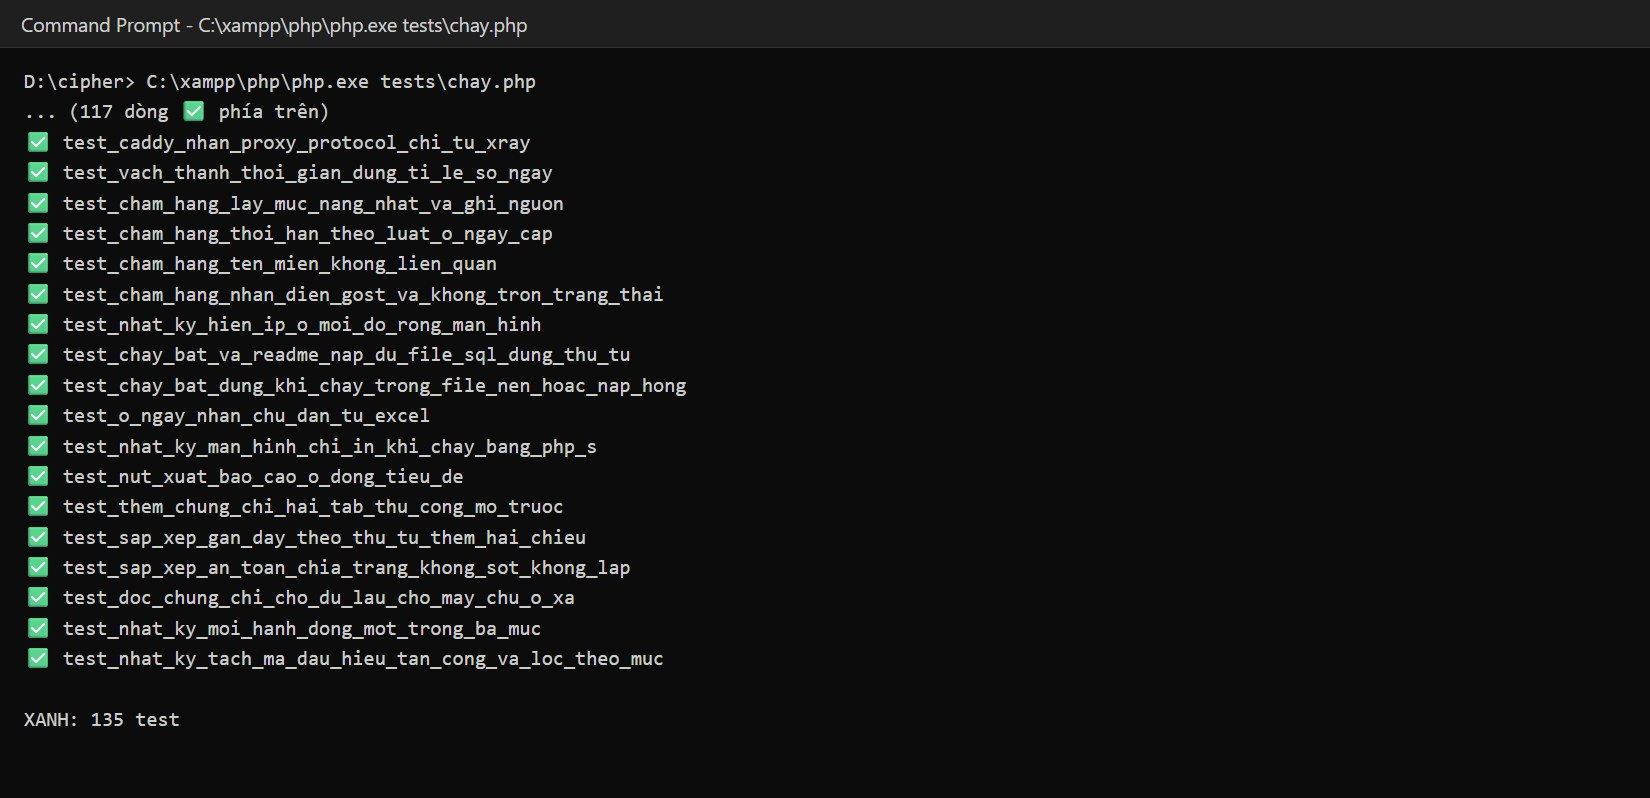
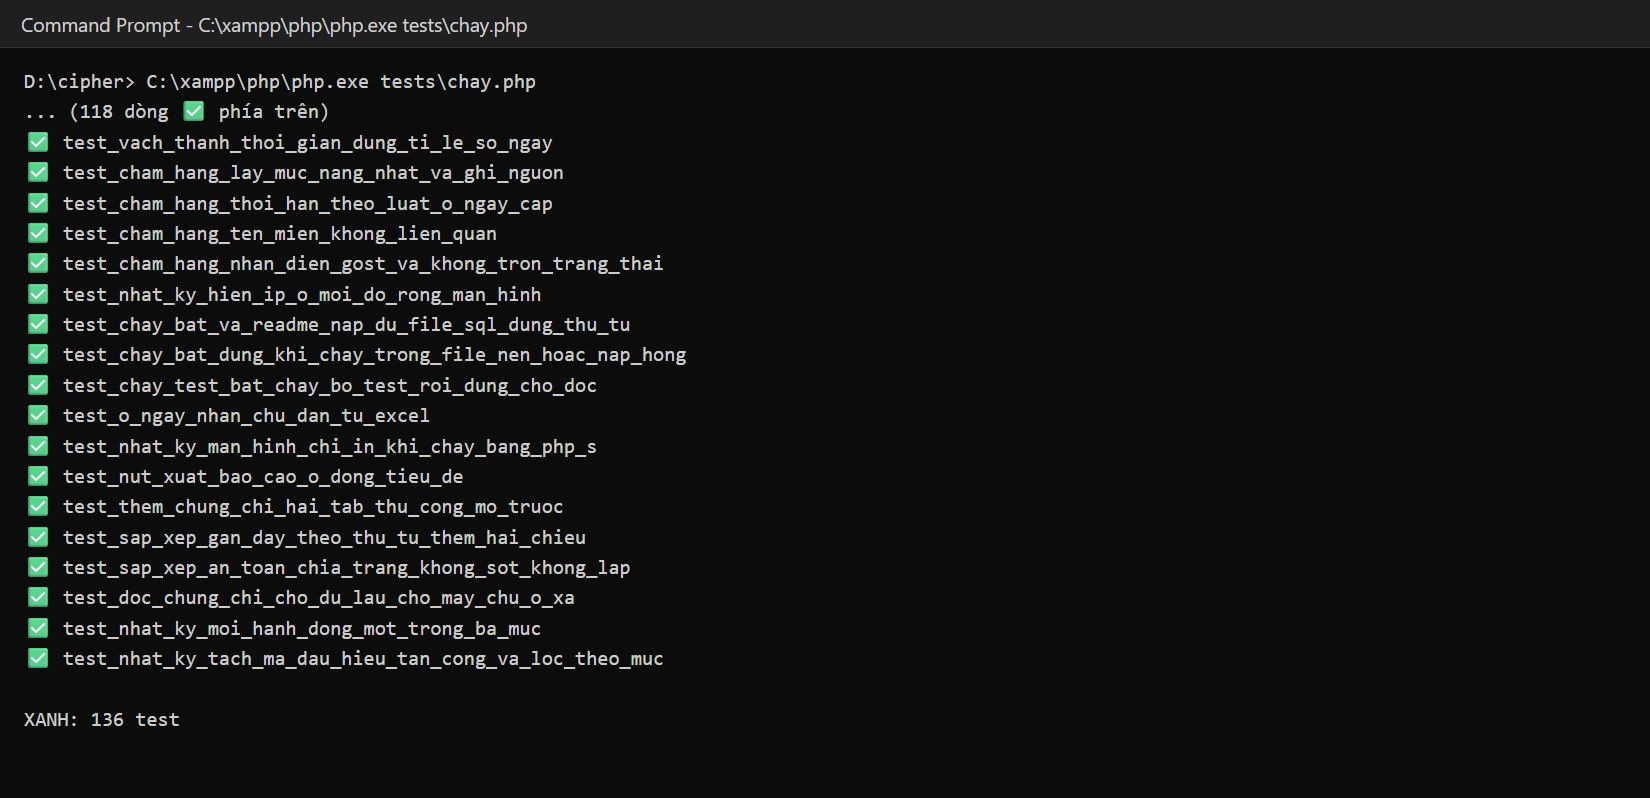
Chụp lại ảnh chạy bộ test cho đúng 136 test
Vì sao: docs/anh/chay_test.jpg chụp lúc bộ test còn 135, trong khi báo cáo ghi
"XANH: 136 test" ngay dưới ảnh và bảng tổng hợp ghi 136/136. Ảnh mới chụp từ đầu
ra thật của tests/chay.php ngày 16/11/2026 (XANH: 136 test), cùng kiểu cửa sổ với
temp/cong_cu_bao_cao/anh_cua_so.py. Công cụ cũ cần bản web tạm temp/web đã bị dọn,
nên lần này Chrome mở thẳng file HTML. Báo cáo Word/PDF và hai gói ở D:\Music
dựng lại theo ảnh mới.

Changed region(s): [[0.0618, 0.1504, 0.4327, 0.5113]]

diff --git a/VIECDANGLAM.md b/VIECDANGLAM.md
@@ -1,2 +1,11 @@
 # 🎯 VIỆC ĐANG LÀM
 > Phiếu bị GHI ĐÈ ở việc kế tiếp. Xong việc thì để trống, chừa đúng dòng tiêu đề.
+
+## Gắn ảnh thật vào slide; sửa ảnh chạy test 135 → 136 trong báo cáo (mở 16/11/2026)
+
+**Một câu:** slide ngoài demo dùng ảnh thật thay hình minh hoạ; ảnh `docs/anh/chay_test.jpg` chụp lúc còn 135 test.
+**User đã chốt:** slide 2 ảnh chứng chỉ Chrome (user chụp, `D:\Desktop\chung_chi.png`) · slide 3 cắt Dashboard,
+Cảnh báo, Lịch sử gia hạn · slide 5 `doc_noi_bo` (giữ sơ đồ nhỏ) · slide 6 giữ sơ đồ · slide 7 `nhat_ky_nguy_hiem` ·
+slide 8 ảnh test mới. Sửa báo cáo làm cùng lúc: chụp lại ảnh, dựng lại Word/PDF, đóng lại 2 gói ở D:\Music.
+**Coi là XONG khi:** ảnh 9 slide đã tự xem · báo cáo PDF hiện "XANH: 136 test" · lời nói vẫn < 700 tiếng.
+**CỐ Ý KHÔNG làm:** sửa code web; đổi ảnh khác trong `docs/anh/`.
